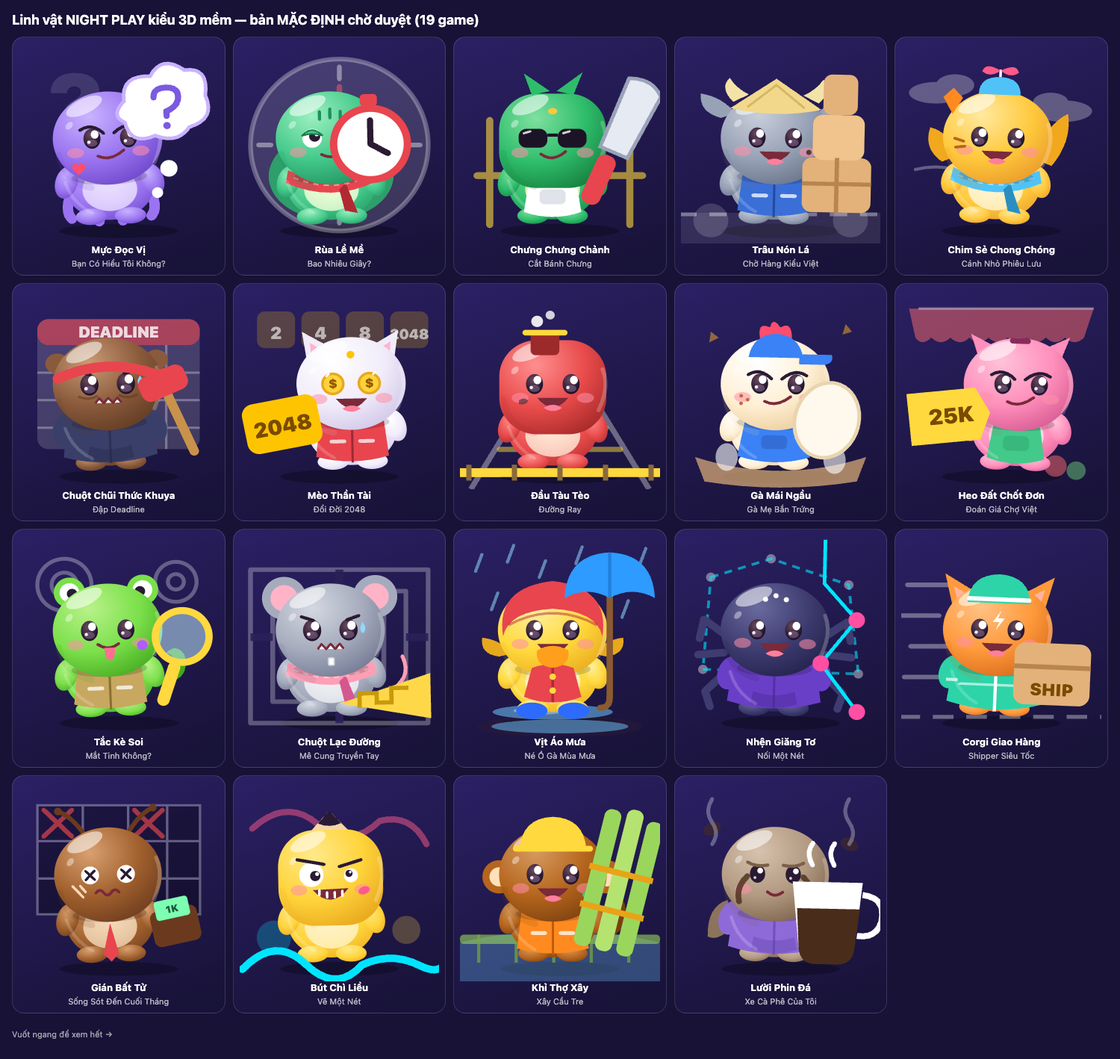
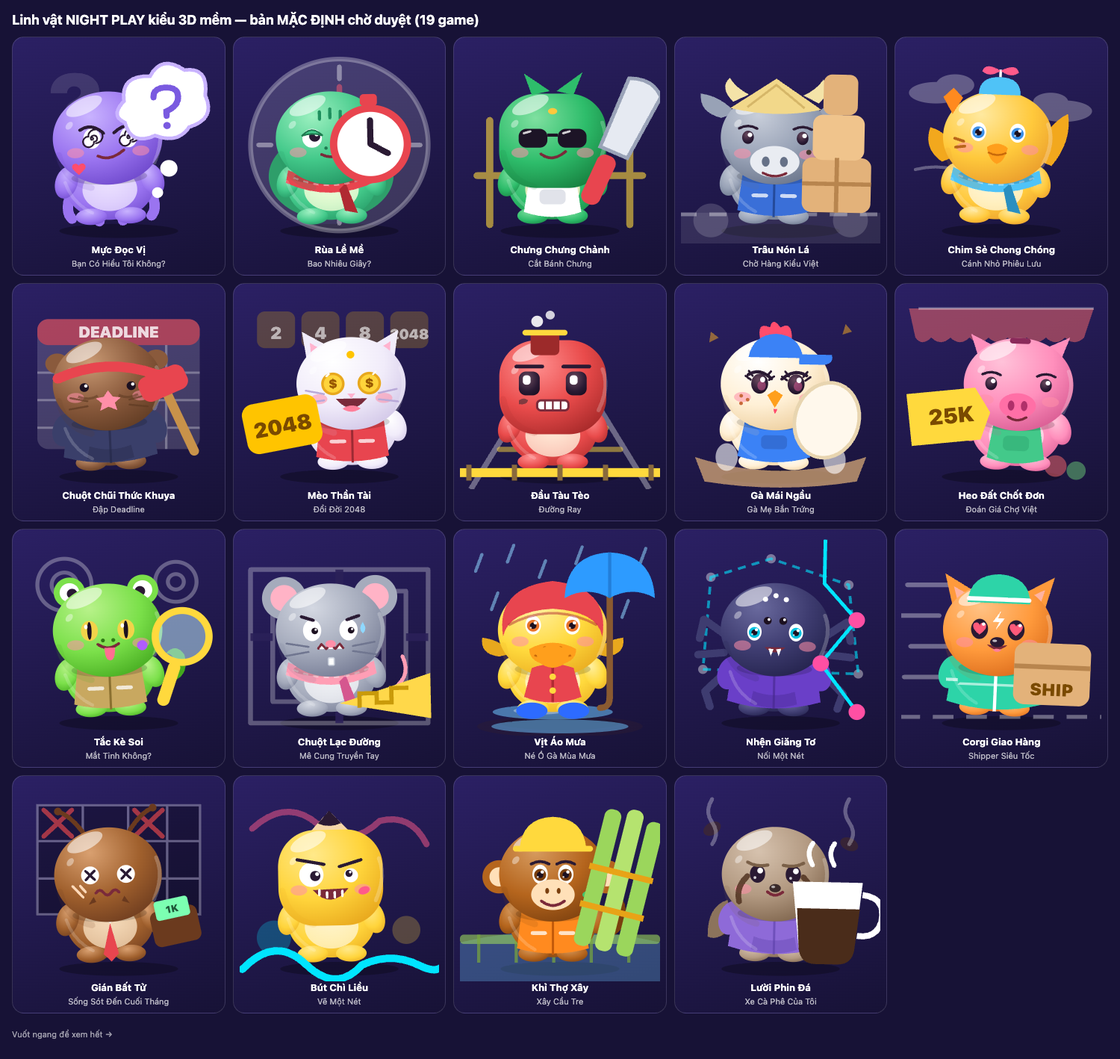
Night 3D: mỗi con một kiểu mắt riêng (xoắn ốc, tròng màu, tim, khe dọc, mi dài, mắt trắng đồng tử nhỏ...) + mũi/mỏ đúng loài (mõm trâu, mũi heo, mỏ vịt, mũi sao chuột chũi, râu mèo)

diff --git a/scripts/art/gen-night3d.js b/scripts/art/gen-night3d.js
@@ -4,7 +4,19 @@ const fs = require("fs"), path = require("path"), out = path.join(__dirname, "..
 const E = (cx, cy, rx, ry, f, x = "") => `<ellipse cx="${cx}" cy="${cy}" rx="${rx}" ry="${ry}" fill="${f}" ${x}/>`;
 const W = '#fff';
 /* mặt: kiểu biểu cảm */
-const eye = (x, y, r = 13) => `<ellipse cx="${x}" cy="${y}" rx="${r}" ry="${r + 3}" fill="url(#e)"/><ellipse cx="${x}" cy="${y + r * 0.55}" rx="${r * 0.62}" ry="${r * 0.42}" fill="#8A6A8E" opacity=".55"/><ellipse cx="${x + r * 0.34}" cy="${y - r * 0.5}" rx="${r * 0.46}" ry="${r * 0.52}" fill="#fff"/><circle cx="${x - r * 0.38}" cy="${y + r * 0.42}" r="${r * 0.2}" fill="#fff" opacity=".9"/>`;
+let CUR = "";
+const eye = (x, y, r = 13) => {
+  const base = `<ellipse cx="${x}" cy="${y}" rx="${r}" ry="${r + 3}" fill="#fff"/>`;
+  const hl = `<ellipse cx="${x + r * 0.34}" cy="${y - r * 0.5}" rx="${r * 0.3}" ry="${r * 0.34}" fill="#fff"/>`;
+  if (CUR === "star") return `<ellipse cx="${x}" cy="${y}" rx="${r}" ry="${r + 3}" fill="#2A1A33"/><path d="M${x} ${y - 11}l3.4 7l7.6 1l-5.6 5.2l1.5 7.6l-6.9-3.8l-6.9 3.8l1.5-7.6l-5.6-5.2l7.6-1z" fill="#FFD93D"/><circle cx="${x + r * 0.45}" cy="${y - r * 0.6}" r="2.6" fill="#fff"/>`;
+  if (CUR === "heart") return `<ellipse cx="${x}" cy="${y}" rx="${r}" ry="${r + 3}" fill="#2A1A33"/><path d="M${x} ${y + 9}c-13-9-12-19-5-19c3 0 5 2 5 5c0-3 2-5 5-5c7 0 8 10-5 19z" fill="#FF5A7A"/><circle cx="${x + r * 0.45}" cy="${y - r * 0.6}" r="2.6" fill="#fff"/>`;
+  if (CUR === "spiral") return base + `<path d="M${x} ${y}m0 -2a2 2 0 1 1 -2 2a5 5 0 1 1 5 5a8.5 8.5 0 1 1 -8.5 -8.5a11 11 0 1 1 11 11" fill="none" stroke="#2A1A33" stroke-width="2.6" stroke-linecap="round"/>`;
+  if (CUR === "lash") return `<ellipse cx="${x}" cy="${y}" rx="${r}" ry="${r + 3}" fill="url(#e)"/><ellipse cx="${x + 3}" cy="${y + 3}" rx="${r * 0.5}" ry="${r * 0.6}" fill="#C6568A" opacity=".6"/>${hl}<path d="M${x - r - 1} ${y - 6}l-8 -6M${x - r + 2} ${y - 12}l-6 -8M${x + r + 1} ${y - 6}l8 -6M${x + r - 2} ${y - 12}l6 -8" stroke="#2A1A33" stroke-width="3.4" stroke-linecap="round"/>`;
+  if (CUR === "wideWhite") return base + `<circle cx="${x + 4}" cy="${y + 1}" r="${r * 0.36}" fill="#1C1020"/><circle cx="${x + 5.5}" cy="${y - 1}" r="1.8" fill="#fff"/>`;
+  if (CUR === "slit") return `<ellipse cx="${x}" cy="${y}" rx="${r}" ry="${r + 3}" fill="#F2D34A"/><ellipse cx="${x}" cy="${y}" rx="${r * 0.26}" ry="${r + 1}" fill="#1C1020"/><ellipse cx="${x - r * 0.4}" cy="${y - r * 0.5}" rx="${r * 0.2}" ry="${r * 0.28}" fill="#fff"/>`;
+  if (CUR.indexOf("ring") === 0) { const col = CUR.split(":")[1] || "#3A8FE8"; return base + `<circle cx="${x}" cy="${y + 1}" r="${r * 0.78}" fill="${col}"/><circle cx="${x}" cy="${y + 1}" r="${r * 0.42}" fill="#1C1020"/><circle cx="${x + r * 0.28}" cy="${y - r * 0.3}" r="${r * 0.22}" fill="#fff"/><circle cx="${x - r * 0.3}" cy="${y + r * 0.35}" r="${r * 0.12}" fill="#fff" opacity=".8"/>`; }
+  return `<ellipse cx="${x}" cy="${y}" rx="${r}" ry="${r + 3}" fill="url(#e)"/><ellipse cx="${x}" cy="${y + r * 0.55}" rx="${r * 0.62}" ry="${r * 0.42}" fill="#8A6A8E" opacity=".55"/><ellipse cx="${x + r * 0.34}" cy="${y - r * 0.5}" rx="${r * 0.46}" ry="${r * 0.52}" fill="#fff"/><circle cx="${x - r * 0.38}" cy="${y + r * 0.42}" r="${r * 0.2}" fill="#fff" opacity=".9"/>`;
+};
 const blush = (y) => E(78, y, 13, 8, '#FF8FA8', 'opacity=".55"') + E(178, y, 13, 8, '#FF8FA8', 'opacity=".55"');
 const mouthSmile = (y) => `<path d="M112 ${y}Q128 ${y + 16} 144 ${y}Q128 ${y + 4} 112 ${y}Z" fill="#7A2A3A"/><path d="M121 ${y + 8}Q128 ${y + 15} 135 ${y + 8}Q128 ${y + 5} 121 ${y + 8}Z" fill="#FF7F9A"/>`;
 const FACE = {
@@ -20,6 +32,15 @@ const FACE = {
   sloth: y => `<ellipse cx="100" cy="${y}" rx="12" ry="14" fill="#2A1A33"/><ellipse cx="156" cy="${y}" rx="12" ry="14" fill="#2A1A33"/><circle cx="104" cy="${y - 5}" r="4.5" fill="#fff"/><circle cx="160" cy="${y - 5}" r="4.5" fill="#fff"/><circle cx="96" cy="${y + 6}" r="2.2" fill="#fff" opacity=".8"/><circle cx="152" cy="${y + 6}" r="2.2" fill="#fff" opacity=".8"/><path d="M84 ${y - 18}Q98 ${y - 10} 116 ${y - 14}M140 ${y - 14}Q158 ${y - 10} 172 ${y - 18}" fill="none" stroke="#7A6048" stroke-width="5" stroke-linecap="round"/>` + blush(y + 24) + `<path d="M116 ${y + 28}Q128 ${y + 38} 140 ${y + 28}" fill="none" stroke="#7A2A3A" stroke-width="4.5" stroke-linecap="round"/>`,
   coin: y => `<circle cx="100" cy="${y}" r="16" fill="#FFD43B" stroke="#E8A81D" stroke-width="4"/><circle cx="156" cy="${y}" r="16" fill="#FFD43B" stroke="#E8A81D" stroke-width="4"/><text x="100" y="${y + 7}" text-anchor="middle" font-family="Inter,system-ui,sans-serif" font-weight="900" font-size="20" fill="#9A5A00">$</text><text x="156" y="${y + 7}" text-anchor="middle" font-family="Inter,system-ui,sans-serif" font-weight="900" font-size="20" fill="#9A5A00">$</text><path d="M90 ${y - 12}l4 -4M162 ${y - 14}l4 -4" stroke="#fff" stroke-width="3" stroke-linecap="round"/>` + blush(y + 24) + `<path d="M104 ${y + 24}Q128 ${y + 54} 152 ${y + 24}Z" fill="#7A2A3A"/><path d="M114 ${y + 40}Q128 ${y + 30} 142 ${y + 40}Q128 ${y + 50} 114 ${y + 40}Z" fill="#FF7F9A"/>`,
   crazy: y => `<circle cx="98" cy="${y}" r="19" fill="#fff"/><circle cx="104" cy="${y + 2}" r="8" fill="#2A1A33"/><circle cx="107" cy="${y - 1}" r="3" fill="#fff"/><circle cx="160" cy="${y + 2}" r="11" fill="#fff"/><circle cx="157" cy="${y - 1}" r="5.5" fill="#2A1A33"/><circle cx="159" cy="${y - 3}" r="2" fill="#fff"/><path d="M76 ${y - 24}L118 ${y - 16}M142 ${y - 12}L176 ${y - 22}" stroke="#2A1A33" stroke-width="5" stroke-linecap="round"/>` + blush(y + 24) + `<path d="M100 ${y + 24}Q128 ${y + 56} 156 ${y + 22}Z" fill="#7A2A3A"/><path d="M110 ${y + 24}v8M122 ${y + 28}v8M134 ${y + 28}v8M146 ${y + 26}v8" stroke="#fff" stroke-width="4" stroke-linecap="round"/>`,
+  tall: y => `<ellipse cx="98" cy="${y}" rx="10" ry="20" fill="url(#e)"/><ellipse cx="158" cy="${y}" rx="10" ry="20" fill="url(#e)"/><ellipse cx="102" cy="${y - 9}" rx="4.5" ry="7" fill="#fff"/><ellipse cx="162" cy="${y - 9}" rx="4.5" ry="7" fill="#fff"/><circle cx="95" cy="${y + 10}" r="2.5" fill="#fff" opacity=".8"/><path d="M82 ${y - 16}l-8 -6M86 ${y - 20}l-4 -8M174 ${y - 16}l8 -6M170 ${y - 20}l4 -8" stroke="#2A1A33" stroke-width="3.5" stroke-linecap="round"/>` + blush(y + 24) + `<path d="M116 ${y + 30}Q128 ${y + 38} 140 ${y + 30}" fill="none" stroke="#7A2A3A" stroke-width="4.5" stroke-linecap="round"/>`,
+  beady: y => `<circle cx="92" cy="${y + 4}" r="7" fill="#1C1020"/><circle cx="164" cy="${y + 4}" r="7" fill="#1C1020"/><circle cx="94.5" cy="${y + 1.5}" r="2.6" fill="#fff"/><circle cx="166.5" cy="${y + 1.5}" r="2.6" fill="#fff"/>` + blush(y + 20),
+  wideSmall: y => `<ellipse cx="86" cy="${y}" rx="9" ry="10.5" fill="url(#e)"/><ellipse cx="170" cy="${y}" rx="9" ry="10.5" fill="url(#e)"/><circle cx="89" cy="${y - 4}" r="3.6" fill="#fff"/><circle cx="173" cy="${y - 4}" r="3.6" fill="#fff"/><path d="M72 ${y - 14}Q86 ${y - 22} 100 ${y - 14}M156 ${y - 14}Q170 ${y - 22} 184 ${y - 14}" fill="none" stroke="#2A1A33" stroke-width="4" stroke-linecap="round"/>` + blush(y + 26),
+  square: y => `<rect x="76" y="${y - 20}" width="32" height="38" rx="11" fill="url(#e)"/><rect x="148" y="${y - 20}" width="32" height="38" rx="11" fill="url(#e)"/><rect x="82" y="${y - 14}" width="12" height="15" rx="5" fill="#fff"/><rect x="154" y="${y - 14}" width="12" height="15" rx="5" fill="#fff"/><path d="M72 ${y - 28}H112M144 ${y - 28}H184" stroke="#2A1A33" stroke-width="6" stroke-linecap="round"/>` + `<rect x="104" y="${y + 26}" width="48" height="16" rx="6" fill="#fff" stroke="#7A2A3A" stroke-width="3.5"/><path d="M116 ${y + 26}V${y + 42}M128 ${y + 26}V${y + 42}M140 ${y + 26}V${y + 42}" stroke="#7A2A3A" stroke-width="2.5"/>`,
+  four: y => eye(96, y + 4, 11) + eye(160, y + 4, 11) + `<circle cx="116" cy="${y - 14}" r="6" fill="#1C1020"/><circle cx="140" cy="${y - 14}" r="6" fill="#1C1020"/><circle cx="118" cy="${y - 16}" r="2.2" fill="#fff"/><circle cx="142" cy="${y - 16}" r="2.2" fill="#fff"/>` + blush(y + 26) + `<path d="M112 ${y + 28}Q128 ${y + 44} 144 ${y + 28}Z" fill="#7A2A3A"/><path d="M118 ${y + 30}l4 12l4 -11M130 ${y + 31}l4 11l4 -12" fill="#fff"/>`,
+  plain: y => eye(100, y) + eye(156, y) + blush(y + 24),
+  plainHigh: y => eye(98, y - 8, 12) + eye(158, y - 8, 12) + blush(y + 18),
+  closeEyes: y => eye(108, y, 12) + eye(148, y, 12) + `<path d="M94 ${y - 16}Q108 ${y - 24} 122 ${y - 16}M134 ${y - 16}Q148 ${y - 24} 162 ${y - 16}" fill="none" stroke="#2A1A33" stroke-width="4.5" stroke-linecap="round"/>`,
+  slyE: y => eye(104, y, 13) + eye(160, y, 13) + `<path d="M86 ${y - 14}Q104 ${y - 26} 122 ${y - 8}M138 ${y - 8}Q158 ${y - 26} 176 ${y - 14}" fill="none" stroke="#2A1A33" stroke-width="5" stroke-linecap="round"/>` + blush(y + 22),
   hollow: y => `<circle cx="100" cy="${y}" r="14" fill="#fff"/><circle cx="156" cy="${y}" r="14" fill="#fff"/><path d="M93 ${y - 7}l14 14M107 ${y - 7}l-14 14M149 ${y - 7}l14 14M163 ${y - 7}l-14 14" stroke="#2A1A33" stroke-width="4" stroke-linecap="round"/>` + `<path d="M108 ${y + 28}q6 -8 12 0t12 0t12 0" fill="none" stroke="#7A2A3A" stroke-width="4.5" stroke-linecap="round"/>`
 };
 /* đạo cụ / phụ kiện hay dùng */
@@ -28,64 +49,64 @@ const G = {};
 const def = (id, o) => { G[id] = o; };
 const bean = (c) => ({ c });
 /* c = [sáng, chính, tối, bụng] */
-def("ban-co-hieu-toi", { name: "Bạn Có Hiểu Tôi Không?", hero: "Mực Đọc Vị", mt: "trái tim nhỏ trên má", prop: "bong bóng suy nghĩ có dấu ?", c: ["#C9B3FF", "#9A74F0", "#6A44C8", "#EADFFF"], face: "sly", head: 0,
+def("ban-co-hieu-toi", { name: "Bạn Có Hiểu Tôi Không?", hero: "Mực Đọc Vị", mt: "trái tim nhỏ trên má", prop: "bong bóng suy nghĩ có dấu ?", c: ["#C9B3FF", "#9A74F0", "#6A44C8", "#EADFFF"], face: "sly", fx: '', head: 0,
   back: '<path d="M70 190q-14 30 -2 44M104 200q-6 30 6 40M152 200q6 30 -6 40M188 190q14 30 2 44" fill="none" stroke="#9A74F0" stroke-width="16" stroke-linecap="round"/>', ears: '', top: '', mark: '<path id="mark" d="M82 150c-5-8-15 0-8 7l8 8 8-8c7-7-3-15-8-7z" fill="#FF4D6D"/>',
   sign: '<g id="sign"><circle cx="214" cy="104" r="7" fill="#fff"/><circle cx="204" cy="124" r="4.5" fill="#fff"/><path d="M180 46Q178 24 202 26Q212 8 230 22Q250 20 246 44Q254 64 232 70Q222 84 204 76Q184 84 180 64Q168 58 180 46Z" fill="#fff" stroke="#C9B3FF" stroke-width="3"/><path d="M204 44Q204 36 214 36Q224 36 224 44Q224 52 214 56V60" fill="none" stroke="#7A5AE0" stroke-width="5" stroke-linecap="round"/><circle cx="214" cy="68" r="3" fill="#7A5AE0"/></g>' });
-def("bao-nhieu-giay", { name: "Bao Nhiêu Giây?", hero: "Rùa Lề Mề", mt: "ba vạch trên trán", prop: "đồng hồ bấm giây", c: ["#9CF0C0", "#43C98A", "#1F8F5E", "#F3FFD8"], face: "turtle", head: 0,
+def("bao-nhieu-giay", { name: "Bao Nhiêu Giây?", hero: "Rùa Lề Mề", mt: "ba vạch trên trán", prop: "đồng hồ bấm giây", c: ["#9CF0C0", "#43C98A", "#1F8F5E", "#F3FFD8"], face: "turtle", fx: '<circle cx="121" cy="124" r="2.6" fill="#1F7A50"/><circle cx="135" cy="124" r="2.6" fill="#1F7A50"/>', head: 0,
   back: E(128, 168, 96, 70, '#2E9E6A') + '<path d="M70 150Q128 90 186 150" fill="none" stroke="#1F7A50" stroke-width="6" opacity=".5"/>', ears: '', top: '', mark: '<g id="mark" stroke="#1F8F5E" stroke-width="5" stroke-linecap="round"><path d="M112 66v12M128 62v14M144 66v12"/></g>',
   sign: '<g id="sign"><rect x="190" y="124" width="14" height="10" rx="3" fill="#E8454F"/><circle cx="198" cy="166" r="30" fill="#fff" stroke="#E8454F" stroke-width="6"/><path d="M198 166V146M198 166L212 174" stroke="#2A1A33" stroke-width="5" stroke-linecap="round"/></g>' });
 def("cat-banh-chung", { name: "Cắt Bánh Chưng", hero: "Chưng Chưng Chảnh", mt: "hạt đậu vàng trên trán", prop: "con dao cắt bánh", c: ["#7FE0A0", "#2EBD6B", "#17803F", "#FFF3C8"], face: "cool", head: 0, square: 1,
   back: '', ears: '', top: '<path d="M96 40L84 6L124 34ZM160 40L174 4L134 34Z" fill="#2EBD6B"/>', mark: E(128, 66, 7, 5, '#FFC83D', 'id="mark"'),
   sign: '<g id="sign" transform="rotate(24 214 170)"><rect x="206" y="176" width="16" height="44" rx="7" fill="#E8454F"/><path d="M204 172L202 110Q220 102 232 114L228 172Z" fill="#E6EAF2" stroke="#9AA3B8" stroke-width="3"/></g>' });
-def("cho-hang-kieu-viet", { name: "Chở Hàng Kiểu Việt", hero: "Trâu Nón Lá", mt: "nốt ruồi má phải", prop: "chồng thùng hàng", c: ["#C8CEDA", "#98A2B6", "#667187", "#E9ECF2"], face: "grin", head: 0,
+def("cho-hang-kieu-viet", { name: "Chở Hàng Kiểu Việt", hero: "Trâu Nón Lá", mt: "nốt ruồi má phải", prop: "chồng thùng hàng", c: ["#C8CEDA", "#98A2B6", "#667187", "#E9ECF2"], face: "wideSmall", fx: '<ellipse cx="128" cy="146" rx="38" ry="25" fill="#E9ECF2"/><ellipse cx="114" cy="146" rx="6" ry="8" fill="#667187"/><ellipse cx="142" cy="146" rx="6" ry="8" fill="#667187"/><path d="M110 164Q128 174 146 164" fill="none" stroke="#7A2A3A" stroke-width="4" stroke-linecap="round"/>', head: 0,
   back: '', ears: '<path d="M44 78Q10 70 12 40Q44 44 66 70Z" fill="#98A2B6"/><path d="M212 78Q246 70 244 40Q212 44 190 70Z" fill="#98A2B6"/><path d="M62 52Q40 30 56 14Q66 30 86 40Z" fill="#F4E3A8"/><path d="M194 52Q216 30 200 14Q190 30 170 40Z" fill="#F4E3A8"/>', top: '<path d="M58 62L128 14L198 62Q128 78 58 62Z" fill="#F2D88A"/><path d="M84 60L128 24L172 60" fill="none" stroke="#C9A85A" stroke-width="3.5" opacity=".7"/>', mark: '<circle id="mark" cx="180" cy="130" r="4" fill="#4A3B33"/>',
   sign: '<g id="sign"><rect x="188" y="176" width="56" height="46" rx="8" fill="#E3B27A"/><rect x="196" y="140" width="42" height="38" rx="8" fill="#F0C48C"/><rect x="204" y="106" width="28" height="34" rx="7" fill="#E3B27A"/><path d="M188 198H244M216 176V222" stroke="#B8854E" stroke-width="3.5"/></g>' });
-def("cozy-wings", { name: "Cánh Nhỏ Phiêu Lưu", hero: "Chim Sẻ Chong Chóng", mt: "hai sọc nâu bên má", prop: "mũ chong chóng", c: ["#FFE9A0", "#FFC93C", "#E8982A", "#FFF6D6"], face: "grin", head: 0,
+def("cozy-wings", { name: "Cánh Nhỏ Phiêu Lưu", hero: "Chim Sẻ Chong Chóng", mt: "hai sọc nâu bên má", prop: "mũ chong chóng", c: ["#FFE9A0", "#FFC93C", "#E8982A", "#FFF6D6"], face: "plainHigh", fx: '<path d="M112 124Q128 112 144 124Q140 146 128 150Q116 146 112 124Z" fill="#FF9F1C"/><path d="M114 132Q128 140 142 132" fill="none" stroke="#C86A0A" stroke-width="3"/>', head: 0,
   back: '<path d="M44 150Q14 130 24 96Q56 104 66 140Z" fill="#F2A81D"/><path d="M212 150Q242 110 234 66Q198 86 188 140Z" fill="#F2A81D"/>', ears: '', top: '<path d="M96 40Q96 12 128 12Q160 12 160 40Z" fill="#4FC3F7"/><path d="M128 12V0" stroke="#fff" stroke-width="4"/><path d="M128 2Q104 -12 100 4Q112 14 128 2Q152 -12 156 4Q144 14 128 2Z" fill="#FF5A8A"/>', mark: '<g id="mark" stroke="#B8651A" stroke-width="4.5" stroke-linecap="round"><path d="M62 112l14 4M64 126l14 -2"/></g>',
   sign: '<g id="sign"><path d="M120 128L128 120L136 128L128 142Z" fill="#FF8A1F"/></g>' });
-def("dap-deadline", { name: "Đập Deadline", hero: "Chuột Chũi Thức Khuya", mt: "quầng thâm dưới mắt", prop: "búa gỗ + khăn buộc đầu", c: ["#C99A74", "#8A5A3C", "#5E3A22", "#E8C8A8"], face: "panic", head: 0,
+def("dap-deadline", { name: "Đập Deadline", hero: "Chuột Chũi Thức Khuya", mt: "quầng thâm dưới mắt", prop: "búa gỗ + khăn buộc đầu", c: ["#C99A74", "#8A5A3C", "#5E3A22", "#E8C8A8"], face: "beady", fx: '<path d="M128 118l7 10l12 2l-9 8l3 12l-13 -6l-13 6l3 -12l-9 -8l12 -2z" fill="#FF8FA8"/><path d="M96 134l-26 -6M96 142l-28 4M160 134l26 -6M160 142l28 4" stroke="#5E3A22" stroke-width="3" stroke-linecap="round" opacity=".7"/>', head: 0,
   back: '', ears: E(52, 72, 18, 16, '#8A5A3C') + E(204, 72, 18, 16, '#8A5A3C'), top: '<path d="M52 96Q128 64 204 96" fill="none" stroke="#E8454F" stroke-width="16" stroke-linecap="round"/><path d="M196 92l24 -8l-6 20z" fill="#E8454F"/>', mark: '<path id="mark" d="M82 126Q98 134 112 126M144 126Q158 134 174 126" fill="none" stroke="#5E3A22" stroke-width="4" opacity=".55"/>',
   sign: '<g id="sign" transform="rotate(-22 206 166)"><rect x="200" y="124" width="12" height="96" rx="6" fill="#C8924A"/><rect x="176" y="100" width="62" height="34" rx="12" fill="#E8454F"/></g>' });
-def("doi-doi-2048", { name: "Đổi Đời 2048", hero: "Mèo Thần Tài", mt: "chấm vàng giữa trán", prop: "tấm vàng 2048", c: ["#FFFFFF", "#F1ECFA", "#CFC4E6", "#FFFFFF"], face: "coin", head: 0,
+def("doi-doi-2048", { name: "Đổi Đời 2048", hero: "Mèo Thần Tài", mt: "chấm vàng giữa trán", prop: "tấm vàng 2048", c: ["#FFFFFF", "#F1ECFA", "#CFC4E6", "#FFFFFF"], face: "coin", fx: '<path d="M122 124H134L128 132Z" fill="#FFB3CF"/><path d="M86 124l-28 -6M86 134l-30 4M170 124l28 -6M170 134l30 4" stroke="#B9A9D8" stroke-width="3" stroke-linecap="round"/>', head: 0,
   back: '', ears: '<path d="M62 78L54 24L108 56Z" fill="#F1ECFA"/><path d="M194 78L202 24L148 56Z" fill="#F1ECFA"/><path d="M68 70L66 42L92 58Z" fill="#FFB3CF"/><path d="M188 70L190 42L164 58Z" fill="#FFB3CF"/>', top: '', mark: E(128, 62, 6, 6, '#FFC400', 'id="mark"'),
   sign: '<g id="sign"><rect x="8" y="170" width="64" height="44" rx="10" fill="#FFC400" transform="rotate(-10 40 192)"/><text x="40" y="200" text-anchor="middle" font-family="Inter,system-ui,sans-serif" font-weight="900" font-size="18" fill="#7A4A00" transform="rotate(-10 40 192)">2048</text></g>' });
-def("duong-ray", { name: "Đường Ray", hero: "Đầu Tàu Tèo", mt: "vệt than trên má", prop: "ống khói + đường ray", c: ["#FF8F8F", "#E94B4B", "#A82A2A", "#FFE9D6"], face: "grin", head: 0, square: 1,
+def("duong-ray", { name: "Đường Ray", hero: "Đầu Tàu Tèo", mt: "vệt than trên má", prop: "ống khói + đường ray", c: ["#FF8F8F", "#E94B4B", "#A82A2A", "#FFE9D6"], face: "square", head: 0, square: 1,
   back: '', ears: '', top: '<rect x="94" y="22" width="44" height="40" rx="8" fill="#9C2A2A"/><path d="M86 26H146" stroke="#FFD93D" stroke-width="9" stroke-linecap="round"/><circle cx="104" cy="8" r="9" fill="#fff" opacity=".9"/><circle cx="124" cy="-2" r="7" fill="#fff" opacity=".8"/>', mark: '<path id="mark" d="M76 134q8-6 14 0q-2 8-14 6z" fill="#3A2A33" opacity=".6"/>',
   sign: '<g id="sign"><path d="M14 238H242" stroke="#FFD93D" stroke-width="9" stroke-linecap="round"/><path d="M40 230V246M84 230V246M128 230V246M172 230V246M216 230V246" stroke="#8A6A3C" stroke-width="5"/></g>' });
-def("ga-me-ban-trung", { name: "Gà Mẹ Bắn Trứng", hero: "Gà Mái Ngầu", mt: "ba tàn nhang má trái", prop: "quả trứng + mũ lưỡi trai", c: ["#FFFFFF", "#FFF0D6", "#EBCB98", "#FFF8EA"], face: "sly", head: 0,
+def("ga-me-ban-trung", { name: "Gà Mẹ Bắn Trứng", hero: "Gà Mái Ngầu", mt: "ba tàn nhang má trái", prop: "quả trứng + mũ lưỡi trai", c: ["#FFFFFF", "#FFF0D6", "#EBCB98", "#FFF8EA"], face: "slyE", fx: '<path d="M116 126L128 118L140 126L128 146Z" fill="#FF9F1C"/><path d="M126 148q2 14 6 0z" fill="#FF4D6D"/>', head: 0,
   back: '', ears: '', top: '<path d="M104 40Q96 8 118 18Q122 0 134 18Q152 6 152 36Z" fill="#FF4D6D"/><path d="M86 66Q92 30 128 28Q164 30 170 66Z" fill="#3B82F6"/><path d="M164 60H214Q218 74 202 76H164Z" fill="#3B82F6"/>', mark: '<g id="mark" fill="#C8693A"><circle cx="76" cy="128" r="2.8"/><circle cx="86" cy="134" r="2.8"/><circle cx="76" cy="140" r="2.8"/></g>',
   sign: '<g id="sign"><ellipse cx="208" cy="190" rx="26" ry="32" fill="#FFF8EC" stroke="#E8D5B0" stroke-width="3" transform="rotate(14 208 190)"/></g>' });
-def("gia-cho-viet", { name: "Đoán Giá Chợ Việt", hero: "Heo Đất Chốt Đơn", mt: "khe bỏ tiền trên đầu", prop: "bảng giá 25K", c: ["#FFC2D9", "#FF8FBC", "#D5578F", "#FFE0EC"], face: "sly", head: 0,
+def("gia-cho-viet", { name: "Đoán Giá Chợ Việt", hero: "Heo Đất Chốt Đơn", mt: "khe bỏ tiền trên đầu", prop: "bảng giá 25K", c: ["#FFC2D9", "#FF8FBC", "#D5578F", "#FFE0EC"], face: "wideSmall", fx: '<ellipse cx="128" cy="142" rx="28" ry="20" fill="#FF6FA6"/><ellipse cx="118" cy="142" rx="5" ry="8" fill="#B0306A"/><ellipse cx="138" cy="142" rx="5" ry="8" fill="#B0306A"/><path d="M114 160Q128 170 142 160" fill="none" stroke="#7A2A3A" stroke-width="4" stroke-linecap="round"/>', head: 0,
   back: '', ears: '<path d="M66 70L52 30L96 52Z" fill="#FF8FBC"/><path d="M190 70L204 30L160 52Z" fill="#FF8FBC"/>', top: '', mark: '<rect id="mark" x="112" y="34" width="32" height="9" rx="4.5" fill="#8A2A5A"/>',
   sign: '<g id="sign" transform="rotate(-8 36 190)"><path d="M8 168H64L74 190L64 212H8Z" fill="#FFD93D"/><text x="42" y="196" text-anchor="middle" font-family="Inter,system-ui,sans-serif" font-weight="900" font-size="18" fill="#7A4A00">25K</text></g>' });
-def("mat-tinh-khong", { name: "Mắt Tinh Không?", hero: "Tắc Kè Soi", mt: "đốm tím má phải", prop: "kính lúp", c: ["#B8F28A", "#7BE04A", "#43A81E", "#F2FFD6"], face: "blep", head: 0,
+def("mat-tinh-khong", { name: "Mắt Tinh Không?", hero: "Tắc Kè Soi", mt: "đốm tím má phải", prop: "kính lúp", c: ["#B8F28A", "#7BE04A", "#43A81E", "#F2FFD6"], face: "blep", fx: '<circle cx="120" cy="124" r="3" fill="#2E7A14"/><circle cx="136" cy="124" r="3" fill="#2E7A14"/>', head: 0,
   back: '<path d="M214 196Q252 190 244 152Q232 132 216 148Q234 152 224 178Z" fill="#43A81E"/>', ears: E(72, 46, 24, 24, '#7BE04A') + E(184, 46, 24, 24, '#7BE04A') + E(72, 46, 15, 15, '#fff') + E(184, 46, 15, 15, '#fff') + E(76, 48, 8, 8, '#2A1A33') + E(180, 48, 8, 8, '#2A1A33'), top: '', mark: E(180, 134, 8, 8, '#B05CFF', 'id="mark"'),
   sign: '<g id="sign" transform="rotate(20 206 190)"><circle cx="208" cy="152" r="26" fill="#BEE9FF" fill-opacity=".55" stroke="#FFD93D" stroke-width="7"/><rect x="204" y="178" width="12" height="46" rx="6" fill="#FFD93D"/></g>' });
-def("me-cung-truyen-tay", { name: "Mê Cung Truyền Tay", hero: "Chuột Lạc Đường", mt: "răng cửa nhô ra", prop: "phô mai mê cung", c: ["#D4D8E2", "#A5ABBC", "#707690", "#F1F2F6"], face: "panic", head: 0,
+def("me-cung-truyen-tay", { name: "Mê Cung Truyền Tay", hero: "Chuột Lạc Đường", mt: "răng cửa nhô ra", prop: "phô mai mê cung", c: ["#D4D8E2", "#A5ABBC", "#707690", "#F1F2F6"], face: "panic", fx: '<ellipse cx="128" cy="130" rx="8" ry="6" fill="#FF8FA8"/><path d="M94 134l-34 -6M94 142l-36 6M162 134l34 -6M162 142l36 6" stroke="#707690" stroke-width="3" stroke-linecap="round"/>', head: 0,
   back: '<path d="M222 204Q252 184 238 152" fill="none" stroke="#FF9EB5" stroke-width="6" stroke-linecap="round"/>', ears: E(58, 56, 34, 34, '#A5ABBC') + E(58, 56, 21, 21, '#FFB3C6') + E(198, 56, 34, 34, '#A5ABBC') + E(198, 56, 21, 21, '#FFB3C6'), top: '', mark: '<rect id="mark" x="124" y="152" width="9" height="12" rx="2" fill="#fff" stroke="#C8CEDA" stroke-width="2"/>',
   sign: '<g id="sign"><path d="M172 222L246 198V236Z" fill="#FFD84A"/><path d="M188 226V214H202V222H214V210H228" fill="none" stroke="#C99A0A" stroke-width="3.5"/></g>' });
-def("ne-o-ga", { name: "Né Ổ Gà Mùa Mưa", hero: "Vịt Áo Mưa", mt: "giọt nước trên mỏ", prop: "ô xanh + áo mưa đỏ + ủng + vũng nước", c: ["#FFF0A0", "#FFD93D", "#E8A81D", "#FFF6C8"], face: "grin", head: 0,
+def("ne-o-ga", { name: "Né Ổ Gà Mùa Mưa", hero: "Vịt Áo Mưa", mt: "giọt nước trên mỏ", prop: "ô xanh + áo mưa đỏ + ủng + vũng nước", c: ["#FFF0A0", "#FFD93D", "#E8A81D", "#FFF6C8"], face: "plainHigh", fx: '<path d="M92 138Q128 118 164 138Q164 162 128 164Q92 162 92 138Z" fill="#FF9F1C"/><path d="M100 148Q128 158 156 148" fill="none" stroke="#C86A0A" stroke-width="3"/><circle cx="116" cy="136" r="2.5" fill="#C86A0A"/><circle cx="140" cy="136" r="2.5" fill="#C86A0A"/>', head: 0,
   back: '<ellipse cx="128" cy="238" rx="92" ry="12" fill="#6EC6FF" opacity=".55"/><ellipse cx="108" cy="236" rx="40" ry="6" fill="#fff" opacity=".35"/>',
   ears: '<path d="M46 150Q16 146 20 120Q52 124 62 146Z" fill="#E8A81D"/><path d="M210 150Q240 146 236 120Q204 124 194 146Z" fill="#E8A81D"/>',
   top: '<path d="M52 118Q40 40 128 30Q216 40 204 118Q196 78 128 74Q60 78 52 118Z" fill="#E8454F"/><path d="M60 100Q128 62 196 100" fill="none" stroke="#B02A32" stroke-width="4" opacity=".5"/><path d="M96 168Q128 156 160 168L172 214Q128 232 84 214Z" fill="#E8454F"/><path d="M128 160V222" stroke="#B02A32" stroke-width="4"/><circle cx="128" cy="182" r="5" fill="#FFD93D"/><circle cx="128" cy="204" r="5" fill="#FFD93D"/><path d="M104 140Q128 126 152 140Q156 164 128 168Q100 164 104 140Z" fill="#FF9F1C"/><ellipse cx="96" cy="236" rx="24" ry="13" fill="#2D6BFF"/><ellipse cx="160" cy="236" rx="24" ry="13" fill="#2D6BFF"/>',
   mark: '<path id="mark" d="M128 150q-8 12 0 18q8 -6 0 -18z" fill="#8FD8FF"/>',
   sign: '<g id="sign"><path d="M206 116V214" stroke="#8A5A30" stroke-width="6" stroke-linecap="round"/><path d="M206 214q0 10 -9 10" fill="none" stroke="#8A5A30" stroke-width="6" stroke-linecap="round"/><path d="M164 118Q166 76 206 74Q246 76 248 118Q227 106 206 118Q185 106 164 118Z" fill="#2D9BFF"/><path d="M206 74V118" stroke="#1B6BC0" stroke-width="3" opacity=".6"/></g>' });
-def("noi-mot-net", { name: "Nối Một Nét", hero: "Nhện Giăng Tơ", mt: "ba chấm trắng trên trán", prop: "sợi tơ nối chấm", c: ["#6A6A9E", "#3E3C70", "#22214A", "#9A98D0"], face: "grin", head: 0,
+def("noi-mot-net", { name: "Nối Một Nét", hero: "Nhện Giăng Tơ", mt: "ba chấm trắng trên trán", prop: "sợi tơ nối chấm", c: ["#6A6A9E", "#3E3C70", "#22214A", "#9A98D0"], face: "four", head: 0,
   back: '<path d="M52 118L18 94L12 124M50 146L10 150M54 176L22 208L30 232M204 118L238 94L244 124M206 146L246 150M202 176L234 208L226 232" fill="none" stroke="#3E3C70" stroke-width="12" stroke-linecap="round" stroke-linejoin="round"/>', ears: '', top: '', mark: '<g id="mark" fill="#fff"><circle cx="112" cy="60" r="4"/><circle cx="128" cy="54" r="4"/><circle cx="144" cy="60" r="4"/></g>',
   sign: '<g id="sign"><path d="M196 0V44L228 80L194 124L230 172" fill="none" stroke="#00E5FF" stroke-width="3.5"/><g fill="#FF4FA3"><circle cx="228" cy="80" r="8"/><circle cx="194" cy="124" r="8"/><circle cx="230" cy="172" r="8"/></g></g>' });
-def("shipper-sieu-toc", { name: "Shipper Siêu Tốc", hero: "Corgi Giao Hàng", mt: "tia chớp giữa trán", prop: "thùng hàng SHIP + mũ bảo hiểm", c: ["#FFC285", "#FF9A3C", "#D8681A", "#FFF1DC"], face: "grin", head: 0,
+def("shipper-sieu-toc", { name: "Shipper Siêu Tốc", hero: "Corgi Giao Hàng", mt: "tia chớp giữa trán", prop: "thùng hàng SHIP + mũ bảo hiểm", c: ["#FFC285", "#FF9A3C", "#D8681A", "#FFF1DC"], face: "smile", fx: '<ellipse cx="128" cy="128" rx="11" ry="8" fill="#2A1A33"/><ellipse cx="124" cy="126" rx="3.5" ry="2" fill="#fff" opacity=".7"/>', head: 0,
   back: '', ears: '<path d="M60 84L44 22L106 58Z" fill="#FF9A3C"/><path d="M196 84L212 22L150 58Z" fill="#FF9A3C"/><path d="M66 70L58 42L92 60Z" fill="#FFB3A0"/><path d="M190 70L198 42L164 60Z" fill="#FFB3A0"/>', top: '<path d="M80 66Q82 22 128 20Q174 22 176 66Z" fill="#2DD4A8"/><path d="M82 60H174" stroke="#fff" stroke-width="7" stroke-linecap="round"/>', mark: '<path id="mark" d="M132 78L120 96H130L124 110L138 90H128Z" fill="#fff"/>',
   sign: '<g id="sign"><rect x="180" y="170" width="62" height="52" rx="9" fill="#E3B27A"/><path d="M180 190H242" stroke="#B8854E" stroke-width="4"/><text x="211" y="214" text-anchor="middle" font-family="Inter,system-ui,sans-serif" font-weight="900" font-size="14" fill="#7A4A00">SHIP</text></g>' });
-def("song-sot-cuoi-thang", { name: "Sống Sót Đến Cuối Tháng", hero: "Gián Bất Tử", mt: "vết sẹo chéo trên má", prop: "ví lép chỉ còn một tờ", c: ["#D9A070", "#A0602D", "#6B3A1E", "#F4D9B8"], face: "hollow", head: 0,
+def("song-sot-cuoi-thang", { name: "Sống Sót Đến Cuối Tháng", hero: "Gián Bất Tử", mt: "vết sẹo chéo trên má", prop: "ví lép chỉ còn một tờ", c: ["#D9A070", "#A0602D", "#6B3A1E", "#F4D9B8"], face: "hollow", fx: '<path d="M104 142l-8 12l12 -4ZM152 142l8 12l-12 -4Z" fill="#6B3A1E"/>', head: 0,
   back: '', ears: '<path d="M98 50Q76 14 54 6M158 50Q180 14 202 6" fill="none" stroke="#6B3A1E" stroke-width="7" stroke-linecap="round"/><circle cx="54" cy="6" r="6" fill="#6B3A1E"/><circle cx="202" cy="6" r="6" fill="#6B3A1E"/>', top: '', mark: '<path id="mark" d="M72 124L88 142M84 124L92 134" fill="none" stroke="#FFD9B8" stroke-width="4" stroke-linecap="round"/>',
   sign: '<g id="sign" transform="rotate(-10 206 190)"><rect x="176" y="168" width="58" height="44" rx="9" fill="#6B3A1E"/><rect x="184" y="156" width="42" height="24" rx="4" fill="#7CFFB2"/><text x="205" y="173" text-anchor="middle" font-family="Inter,system-ui,sans-serif" font-weight="900" font-size="12" fill="#1F5A3A">1K</text></g>' });
 def("ve-mot-net", { name: "Vẽ Một Nét", hero: "Bút Chì Liều", mt: "vệt tẩy hồng trên má", prop: "nét vẽ nguệch ngoạc", c: ["#FFE98A", "#FFD43B", "#E8A81D", "#FFF3C8"], face: "crazy", head: 0, square: 1,
   back: '', ears: '<path d="M70 70L128 8L186 70Q128 86 70 70Z" fill="#F5D6A8"/><path d="M110 28L128 8L146 28Q128 36 110 28Z" fill="#2A1A33"/>', top: '', mark: '<ellipse id="mark" cx="180" cy="134" rx="9" ry="6" fill="#FF5A8A" transform="rotate(-20 180 134)"/>',
   sign: '<path id="sign" d="M24 240Q60 204 92 236T152 238Q184 224 214 240T246 218" fill="none" stroke="#00E5FF" stroke-width="8" stroke-linecap="round"/>' });
-def("xay-cau-tre", { name: "Xây Cầu Tre", hero: "Khỉ Thợ Xây", mt: "vệt sơn xanh trên má", prop: "bó tre + mũ bảo hộ", c: ["#D69A5E", "#B5651D", "#7A3F0E", "#FFE0B8"], face: "grin", head: 0,
+def("xay-cau-tre", { name: "Xây Cầu Tre", hero: "Khỉ Thợ Xây", mt: "vệt sơn xanh trên má", prop: "bó tre + mũ bảo hộ", c: ["#D69A5E", "#B5651D", "#7A3F0E", "#FFE0B8"], face: "closeEyes", fx: '<ellipse cx="128" cy="140" rx="34" ry="24" fill="#FFE0B8"/><ellipse cx="119" cy="134" rx="3" ry="4.5" fill="#7A3F0E"/><ellipse cx="137" cy="134" rx="3" ry="4.5" fill="#7A3F0E"/><path d="M110 150Q128 164 146 150" fill="none" stroke="#7A2A3A" stroke-width="4.5" stroke-linecap="round"/>', head: 0,
   back: '<path d="M208 210Q250 198 240 154Q232 136 216 148Q232 158 222 180Z" fill="#7A3F0E"/>', ears: E(44, 112, 26, 26, '#B5651D') + E(44, 112, 15, 15, '#FFE0B8') + E(212, 112, 26, 26, '#B5651D') + E(212, 112, 15, 15, '#FFE0B8'), top: '<path d="M76 68Q80 20 128 18Q176 20 180 68Z" fill="#FFD93D"/><path d="M70 68H186" stroke="#FFD93D" stroke-width="9" stroke-linecap="round"/>', mark: '<ellipse id="mark" cx="182" cy="140" rx="8" ry="5.5" fill="#43C46B"/>',
   sign: '<g id="sign" transform="rotate(14 214 170)"><rect x="194" y="108" width="14" height="116" rx="6" fill="#9BD65C"/><rect x="212" y="104" width="14" height="120" rx="6" fill="#B5E36F"/><rect x="230" y="110" width="14" height="114" rx="6" fill="#9BD65C"/><path d="M192 158H246M192 190H246" stroke="#E8A317" stroke-width="5"/></g>' });
-def("xe-ca-phe", { name: "Xe Cà Phê Của Tôi", hero: "Lười Phin Đá", mt: "hai sọc tối từ mắt", prop: "ly cà phê sữa đá", c: ["#D6C2AE", "#B39A82", "#7A6048", "#F1E6D8"], face: "sloth", head: 0,
+def("xe-ca-phe", { name: "Xe Cà Phê Của Tôi", hero: "Lười Phin Đá", mt: "hai sọc tối từ mắt", prop: "ly cà phê sữa đá", c: ["#D6C2AE", "#B39A82", "#7A6048", "#F1E6D8"], face: "sloth", fx: '<ellipse cx="128" cy="130" rx="9" ry="6.5" fill="#3A2A2A"/><ellipse cx="125" cy="128" rx="3" ry="2" fill="#fff" opacity=".6"/>', head: 0,
   back: '<path d="M54 150Q22 160 24 208Q42 216 62 190Z" fill="#8C735C"/><path d="M202 150Q234 160 232 208Q214 216 194 190Z" fill="#8C735C"/>', ears: '', top: '', mark: '<path id="mark" d="M84 112Q66 130 72 152M172 112Q190 130 184 152" fill="none" stroke="#4A2C1A" stroke-width="9" stroke-linecap="round" opacity=".8"/>',
   sign: '<g id="sign"><path d="M180 166H238L232 222Q230 234 218 234H200Q188 234 186 222Z" fill="#fff"/><path d="M184 188H236L232 222Q230 234 218 234H200Q188 234 186 222Z" fill="#4A2C1A"/><path d="M238 176Q258 178 254 198Q250 212 234 210" fill="none" stroke="#fff" stroke-width="5"/><path d="M196 152q-6-10 0-18M214 152q-6-10 0-18" fill="none" stroke="#fff" stroke-width="4" stroke-linecap="round"/></g>' });
 const hoodie = (c, d) => `<path d="M64 164Q128 142 192 164L200 222Q128 244 56 222Z" fill="${c}"/><path d="M64 164Q128 142 192 164" fill="none" stroke="${d}" stroke-width="5" opacity=".5"/><path d="M128 156V234" stroke="${d}" stroke-width="3.5" opacity=".6"/><path d="M96 206Q128 218 160 206L164 226Q128 238 92 226Z" fill="${d}" opacity=".35"/><ellipse cx="60" cy="178" rx="19" ry="27" fill="${c}" transform="rotate(18 60 178)"/><ellipse cx="196" cy="178" rx="19" ry="27" fill="${c}" transform="rotate(-18 196 178)"/>`;
@@ -120,6 +141,7 @@ const SCENE = {
 const PS = { "dap-deadline": 1.0, "song-sot-cuoi-thang": 1.05, "mat-tinh-khong": 1.3, "doi-doi-2048": 1.5, "duong-ray": 1.3, "ve-mot-net": 1.2, "noi-mot-net": 1.3, "ne-o-ga": 1.35 };
 const AX = { "doi-doi-2048": [6, 236], "gia-cho-viet": [6, 236], "ve-mot-net": [128, 250], "duong-ray": [128, 250], "noi-mot-net": [250, 0], "ban-co-hieu-toi": [250, 0], "mat-tinh-khong": [250, 236], "dap-deadline": [250, 236] };
 const PX = { "doi-doi-2048": 40, "gia-cho-viet": 40 };
+const EST = { "ban-co-hieu-toi": "spiral", "cozy-wings": "ring:#3A8FE8", "ga-me-ban-trung": "lash", "gia-cho-viet": "star", "me-cung-truyen-tay": "wideWhite", "ne-o-ga": "ring:#E8742A", "xay-cau-tre": "ring:#7A3F0E", "mat-tinh-khong": "slit", "shipper-sieu-toc": "heart", "cho-hang-kieu-viet": "lash", "noi-mot-net": "ring:#00C2E0", "dap-deadline": "", "xe-ca-phe": "" };
 const ids = Object.keys(G);
 function svg(id, d) {
   const [c0, c1, c2, cb] = d.c, hy = d.square ? 8 : 0;
@@ -141,7 +163,7 @@ function svg(id, d) {
 <ellipse cx="62" cy="176" rx="17" ry="26" fill="url(#b)" transform="rotate(18 62 176)"/><ellipse cx="194" cy="176" rx="17" ry="26" fill="url(#b)" transform="rotate(-18 194 176)"/>
 <ellipse cx="98" cy="232" rx="24" ry="13" fill="url(#b)"/><ellipse cx="158" cy="232" rx="24" ry="13" fill="url(#b)"/>
 ${OUT[id] || ""}${d.ears}<ellipse cx="128" cy="170" rx="58" ry="12" fill="#000" opacity=".16"/>${headShape}<ellipse cx="94" cy="56" rx="30" ry="12" fill="#fff" opacity=".55" transform="rotate(-24 94 56)"/><ellipse cx="70" cy="86" rx="7" ry="4.5" fill="#fff" opacity=".4" transform="rotate(-50 70 86)"/><path d="M204 84Q216 112 198 150" fill="none" stroke="#fff" stroke-width="6" opacity=".22" stroke-linecap="round"/><path d="M60 176Q70 210 100 226" fill="none" stroke="#fff" stroke-width="5" opacity=".18" stroke-linecap="round"/><path d="M52 132Q60 176 100 186" fill="none" stroke="${c2}" stroke-width="10" opacity=".14" stroke-linecap="round"/></g>
-<g id="face"><g id="eyes">${FACE[d.face](108 - 0)}</g>${d.mark}</g>
+<g id="face"><g id="eyes">${(CUR = EST[id] || "", FACE[d.face](108))}</g>${d.fx || ""}${d.mark}</g>
 ${d.top}</g>
 <g id="propg" transform="translate(${AX[id] ? AX[id][0] : 250} ${AX[id] ? AX[id][1] : 236}) scale(${PS[id] || 1.55}) translate(${AX[id] ? -AX[id][0] : -250} ${AX[id] ? -AX[id][1] : -236})">${d.sign}</g>
 <g id="acc-badge" class="acc acc-badge"></g><g id="acc-group" class="acc acc-group"></g><g id="acc-night" class="acc acc-night"></g><g id="acc-star" class="acc acc-star"></g><g id="fx-night" class="fx fx-night"></g><g id="fx-star" class="fx fx-star"></g>
